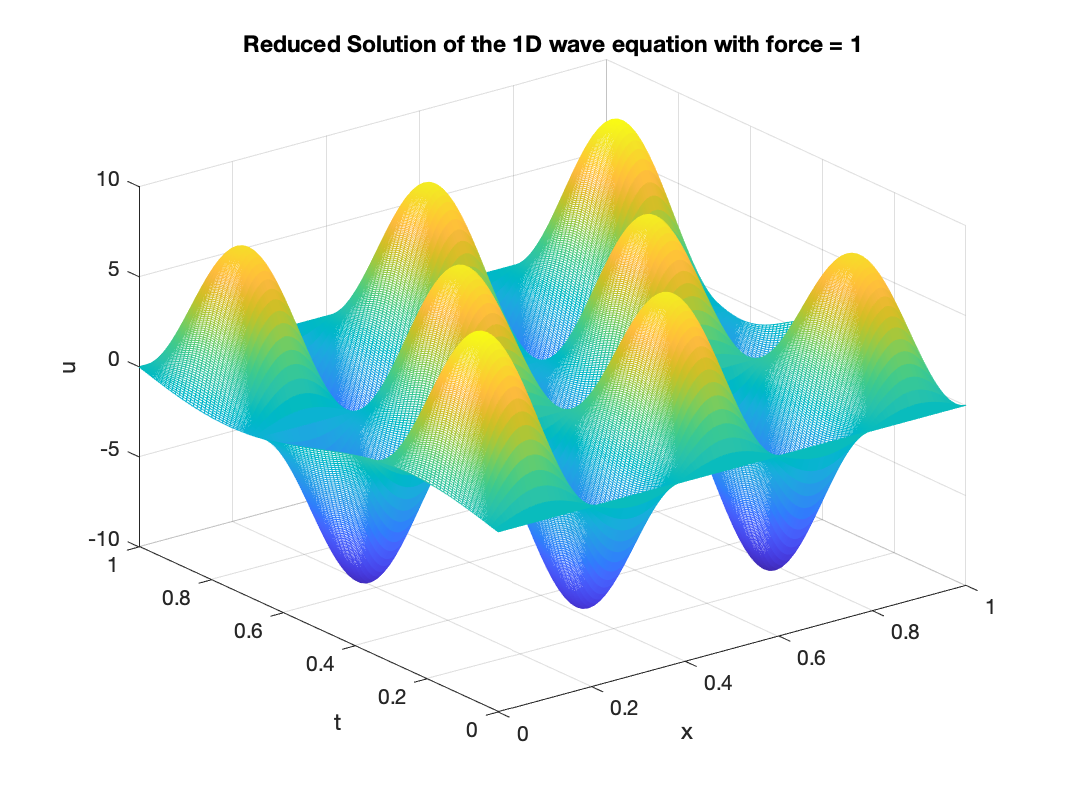
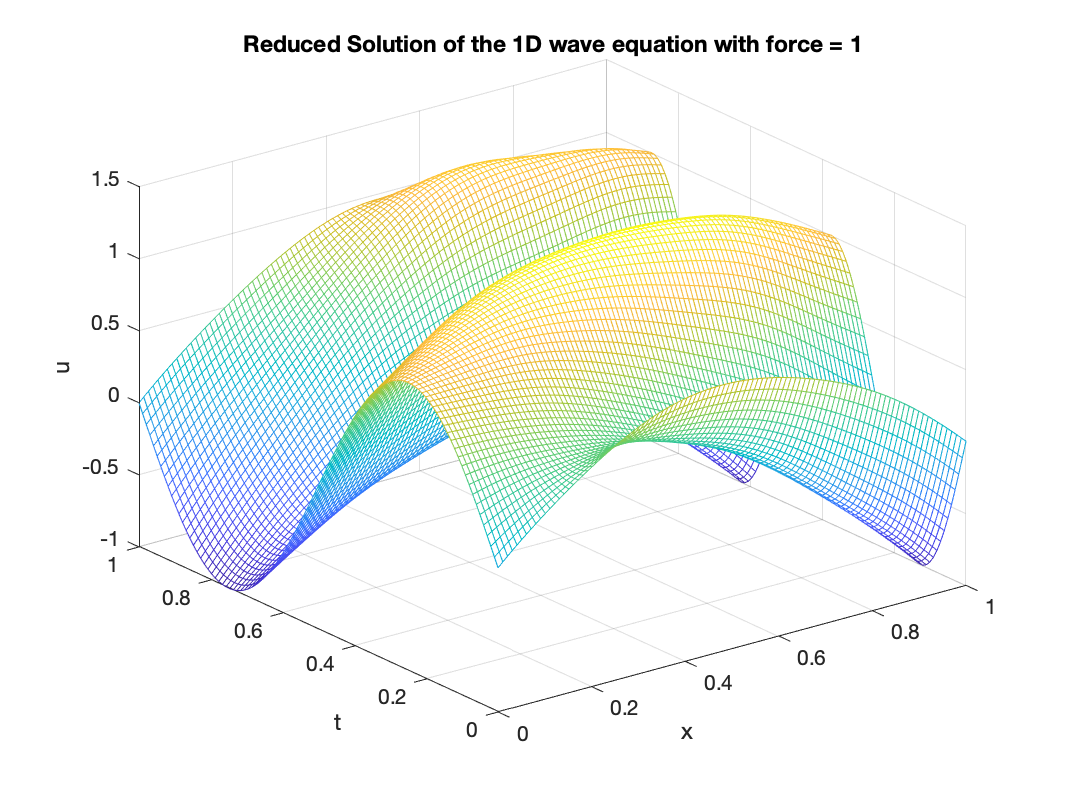
[TP2] add more modes (tag:w)

diff --git a/TP2_eleve/TP2_jose.m b/TP2_eleve/TP2_jose.m
@@ -1,0 +1,138 @@
+clear all; close all; clc;
+
+%% Parameters
+L = 1;
+T = 1;
+Nx = 5;
+Nt = 3;
+dx = L/(Nx-1);
+dt = T/(Nt-1);
+lx = 0:dx:L;
+lt = 0:dt:T;
+
+% coarse discretization
+lx_c = 0:dx*10:L;
+lt_c = 0:dt*10:T;
+
+% meshes 
+% Meshes (fine and coarse)
+[mesh_x_f,mesh_t_f] = meshgrid(lx,lt);
+[mesh_x_g,mesh_t_g] = meshgrid(lx_c,lt_c);
+
+% Boundary Conditions
+ud_0 = sin(2*pi*lt/T);
+ud_L = -sin(4*pi*lt/T);
+
+ %Internal Force
+f = zeros(Nx,Nt);
+for i = 1:Nx-1
+    for j = 1:Nt-1
+        f(i,j)=10^3*sin(3*pi*lx(i)/T)*sin(5*pi*lt(j)/L);
+    end
+end
+%fg = 10*rand(Nt/10,Nx/10);
+%f = interp2(mesh_x_g,mesh_t_g,fg,mesh_x_f,mesh_t_f,'spline');
+
+% "Stiffness" Matrix
+k = (1/dx)*[1 -1;-1 1]; 
+K = zeros(Nx);
+for i = 1:Nx-1
+    K(i:i+1,i:i+1) = K(i:i+1,i:i+1) + k;
+end
+
+%% Integration
+% Space Integration 
+% Elementary Matrix
+M_elX = dx/6 * [2 1;1 2];
+
+% Assembly on Space
+M_asX = zeros(Nx);
+for i = 1:Nx-1
+    M_asX(i:i+1,i:i+1) = M_asX(i:i+1,i:i+1) + M_elX;
+end
+
+% Time Integration
+M_elT = dt/6 * [2 1;1 2];
+% Assembly on time
+M_asT = zeros(Nt);
+for i = 1:Nt-1
+    M_asT(i:i+1,i:i+1) = M_asT(i:i+1,i:i+1) + M_elT;
+end
+
+%% Right Hand Side
+
+F = M_asX*f;  
+
+%% K matrix decomposition 
+DOF = 1:Nx;
+DOFd = [1,Nx];
+DOFu = setdiff(DOF,DOFd);
+Kuu = K(DOFu,DOFu);
+Kud = K(DOFu,DOFd);
+Fu = F(DOFu);
+Ud = [ud_0',ud_L'];
+
+%% Loop for every time step
+U = zeros(Nx,Nt);
+for i = 1:Nt
+    Ft = F(:,i);
+    U(DOFd,i) = Ud(i,:)';
+    U(DOFu,i) = Kuu\(Ft(2:end-1)-Kud*Ud(i,:)');
+end
+mesh(U)  
+
+%% Greedy Algorithm
+Ucl = (1-lx/L)'*ud_0 + (lx/L)'*ud_L;
+G = F-K*Ucl;
+lambda_0 = lt;
+it = 0;
+W = zeros(Nx,Nt);
+Modes = 2;
+rec_error = zeros(1,Modes);
+
+for mode = 1:Modes
+    % Fixed Point Algorithm
+    error = 1;
+    while error > 1e-3
+        H = (lambda_0*M_asT*lambda_0')*K;
+        J = lambda_0*M_asT*G';
+        Huu = H(DOFu,DOFu);
+        Juu = J(DOFu);
+        Lambda_k = zeros(Nx,1);
+        Lambda_k(DOFu) = Huu\Juu';
+        Lambda_k = Lambda_k./sqrt(Lambda_k'*K*Lambda_k);
+        lambda_1 = Lambda_k'*G;
+        error = ((lambda_1-lambda_0)*M_asT*(lambda_1-lambda_0)')/(lambda_0*M_asT*lambda_0');
+        lambda_0 = lambda_1;
+        it = it + 1;
+    end
+    G = G - K*Lambda_k*lambda_1;
+    W = W + Lambda_k*lambda_1;
+    U_greedy = Ucl + W;
+
+    % Error Calculation 
+    reconstuction_errorNum = zeros(1,Nx)';
+    reconstuction_errorDen = zeros(1,Nx)';
+
+    for k = 1:Nx
+        reconstuction_errorNum(k) = (U(k,:)-U_greedy(k,:))*M_asT*(U(k,:)-U_greedy(k,:))';
+        reconstuction_errorDen(k) = (U(k,:)*M_asT*U(k,:)');
+    end
+    rec_errorNum = reconstuction_errorNum'*M_asX*reconstuction_errorNum;
+    rec_errorDen = reconstuction_errorDen'*M_asX*reconstuction_errorDen;
+    rec_error(mode) = sqrt(rec_errorNum)/sqrt(rec_errorDen);
+    
+    % Visualization
+    figure(1)
+    subplot(1,3,1)
+        mesh(U)
+        title("Reference Solution")
+    subplot(1,3,2)
+        mesh(U_greedy);
+        title("PGD ")
+    subplot(1,3,3)
+        plot(real(rec_error))
+        xlabel('number of modes')
+        ylabel('error')
+    pause(0.5)
+end

diff --git a/TP2_eleve/TP2_moeeze.m b/TP2_eleve/TP2_moeeze.m
@@ -3,18 +3,21 @@ clear; close all; clc;
 %% Global parameters
 E = 1;
 S = 1;
-if_force = 0;
-nmodes = 15;
+if_force = 1;
 
 %% Grid definition
 
 L = 1.0; % length of the domain
 T = 1.0; % final time
-nx = 1000; % number of grid points
+nx = 100; % number of grid points
 nt = 100; % number of time steps
 
 lx0 = 0.0; % left boundary
 lt0 = 0.0; % initial time
+xf  = linspace(0,T,nx);    % fine discretisation
+xc  = linspace(0,T,nx/10); % coarse discretisation
+tf  = linspace(0,T,nt);     % fine discretisation
+tc  = linspace(0,T,nt/10);
 
 dx = L/(nx-1); % grid spacing
 dt = T/(nt-1); % time step
@@ -38,7 +41,11 @@ udLd = -sin(4*pi*lt)/T; % boundary condition
 
 %% discrete force
 if if_force==1
-    f = (1e3 * (sin(3*pi*lt)/T)' * (sin(5*pi*lx)/L))';
+   % f = (1e3 * (sin(3*pi*lt)/T)' * (sin(5*pi*lx)/L))';
+    [mesh_x_f,mesh_t_f] = meshgrid(tf,xf);
+    [mesh_x_g,mesh_t_g] = meshgrid(tc,xc);
+    fg = 10*rand(nx/10,nt/10);
+    f = interp2(mesh_x_g,mesh_t_g,fg,mesh_x_f,mesh_t_f,'spline');
 end
 %%%%%%%%%%%%%%%%%%%%%%%%%%%%%%%%%%%%%%%%%%%%%%%%%%%%%%%%%%%%%%
 
@@ -103,13 +110,12 @@ ucl = (1-lx/L)'*ud0d + (lx/L)'*udLd;
 G = F - K*ucl;
 
 lambda = lt;
-er = 1;
 iter = 0;
-nb_modes = 15;
-Lambda = zeros(nt,nb_modes);
-Gamma = zeros(nx,nb_modes);
+W = zeros(nx, nt);
+nb_modes = 5;
+error = zeros(1, nb_modes);
 for i = 1:nb_modes
-    G - K*Lambda*lambda;
+    er = 1;
     while er > 1e-3
         old_lambda = lambda;
         iter = iter + 1;
@@ -117,20 +123,50 @@ for i = 1:nb_modes
         H = intlambda * K;
         J = lambda * It * G';
         Huu = H(dof_u, dof_u);
-        Ju = J(:, dof_u);
+        Ju = J(dof_u);
         Lambda = zeros(nx, 1);
-        Lambda(dof_u) = (Huu\Ju')';
-        Lambda = Lambda / sqrt(Lambda'*K*Lambda);
+        Lambda(dof_u) = (Huu\Ju');
+        Lambda = Lambda./ sqrt(Lambda'*K*Lambda);
         lambda = (Lambda' * G);
         er = ((lambda - old_lambda)*It*(lambda - old_lambda)')/ intlambda;
     end
+    G = G - K*Lambda*lambda;
+    W = W + Lambda * lambda;
+    u_red = ucl + W;
+    num = zeros(nx, 1);
+    den = zeros(nx, 1);
+    for j=1:nx
+        num(j) = (u(j, :) - u_red(j, :))*It*(u(j, :) - u_red(j, :))';
+        den(j) = (u(j, :))*It*(u(j, :))';
+    end
+    num = num'*Ix*num;
+    den = den'*Ix*den;
+    error(i) = num/den;
+
+    subplot(1,3,2)
+    mesh(lx_mesh,lt_mesh,u_red');
+    xlabel('x')
+    ylabel('y')
+    zlabel('U PGD')
+    shading interp
+    Title = ["Approximation with "+ i " mode(s)"];
+    title(Title)
+    subplot(1,3,3);
+    plot(error);
+    xlabel('modes');
+    ylabel('error');
+    Title2 = ["Error with "+ i " mode(s)"];
+    title(Title2)    
+    pause(0.5)
+end
+
     
 fprintf('\nNumber of iterations: %d', iter);
 fprintf('\n\nFinal error: %d', er);
-
+saveas(gcf, strcat('../Final Report/assets/TP2_red_anim_solution_', num2str(if_force), '.png'));
+saveas(gcf, strcat('assets/TP2_red_anim_solution_', num2str(if_force), '.png'));
 
 %% Cost = no.modes * n_iter * cost
-u_red = ucl + Lambda * lambda;
 figure
 [lx_mesh, lt_mesh] = meshgrid(lx, lt);
 mesh(lx_mesh, lt_mesh, u_red');

diff --git a/TP1_eleve/PGD_field_eleve.m b/TP1_eleve/PGD_field_eleve.m
@@ -39,11 +39,7 @@ Ug = rand(n_T/10,n_X/10);
 Uf = interp2(mesh_x_g,mesh_t_g,Ug,mesh_x_f,mesh_t_f,'spline');
 
 % Display distribution
-figure()
-subplot(1,4,1)
-surf(xc,tc,Ug)
-title("Coarse distribution")
-shading interp
+ 
 
 subplot(1,4,2)
 surf(xf,tf,Uf)
